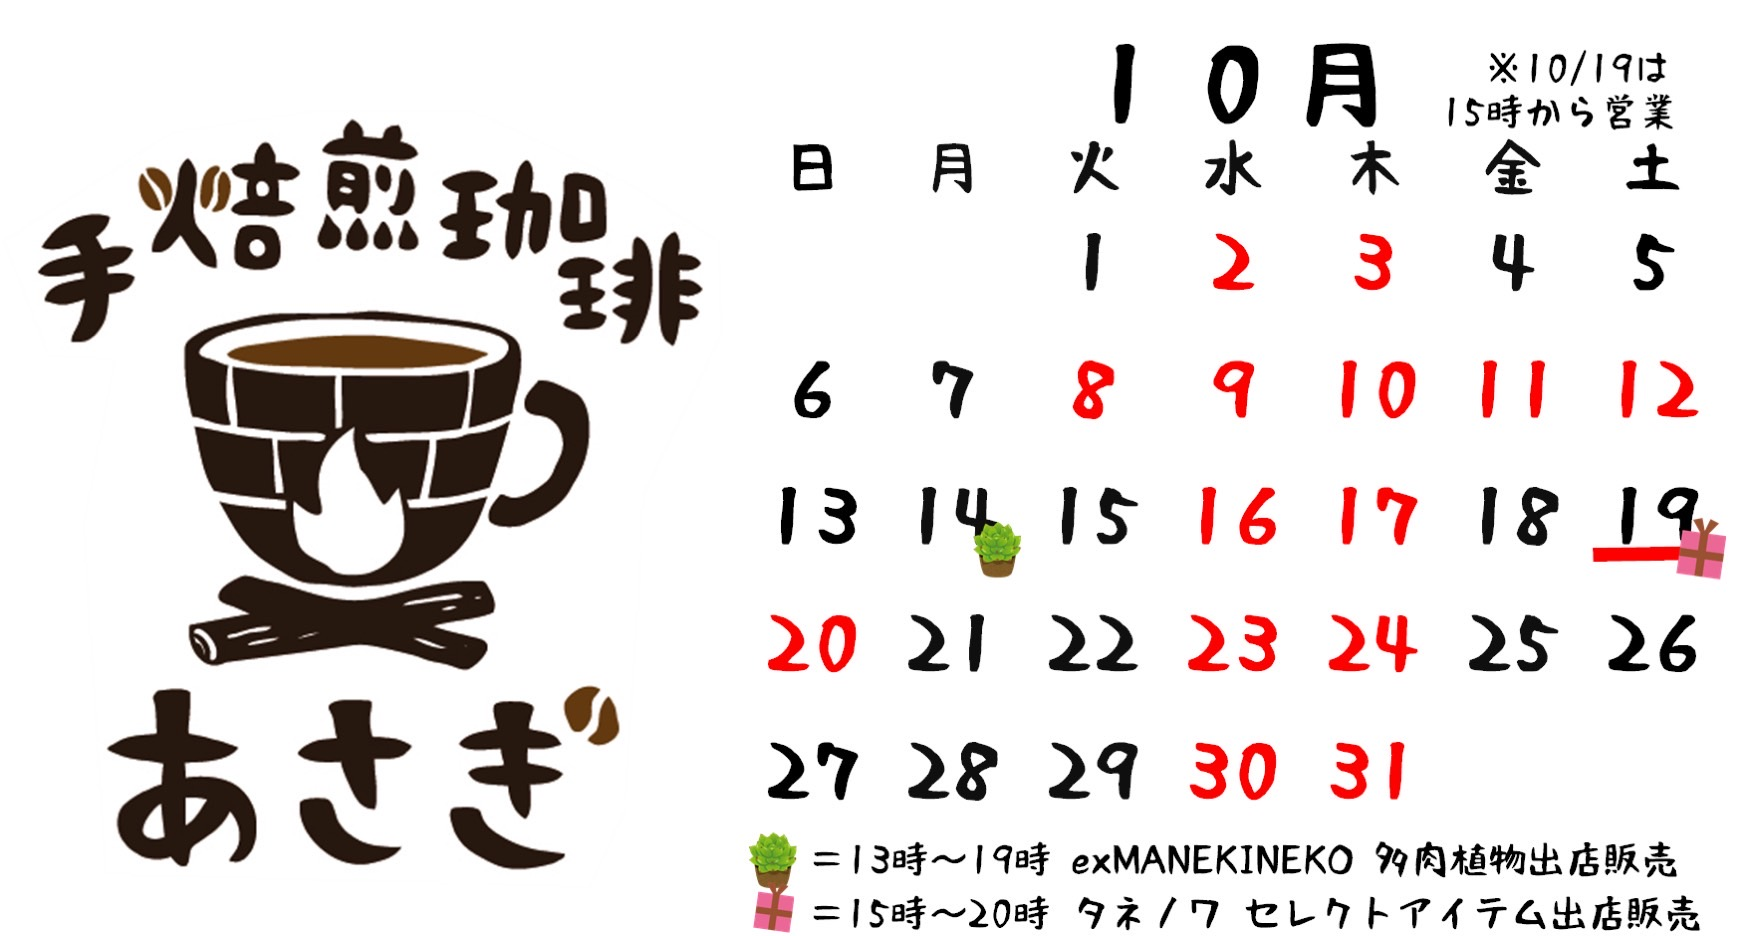
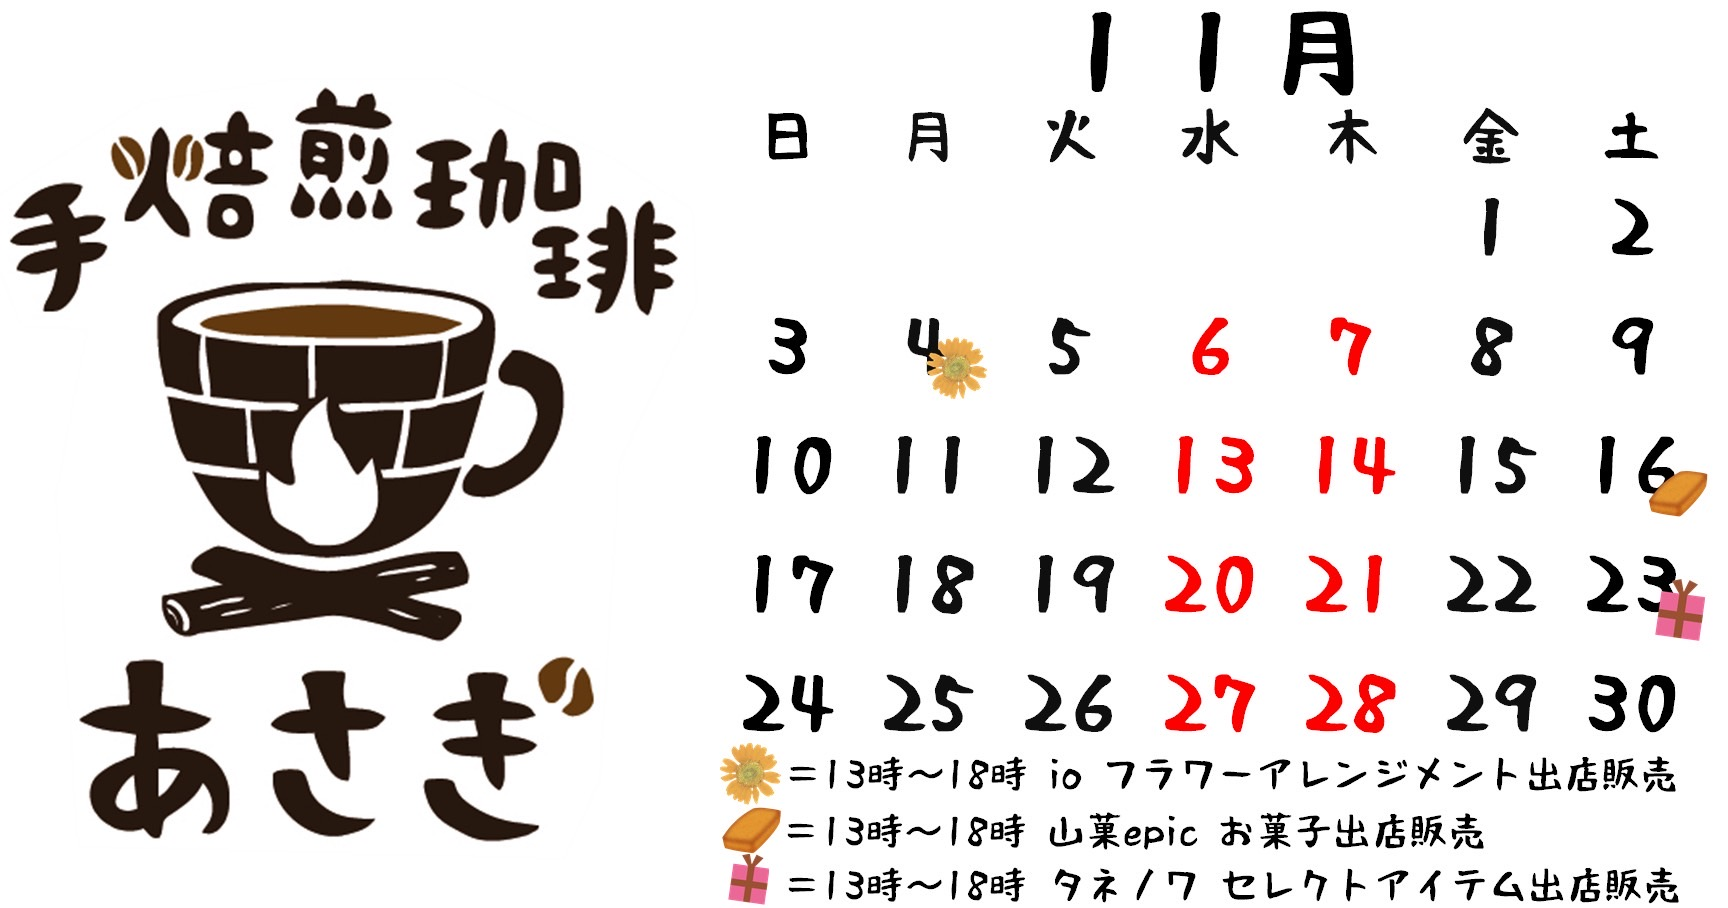
11gatu

diff --git a/bean.html b/bean.html
@@ -112,6 +112,13 @@
                 </a>
             </div>
         </div>
+        <div class="event">
+            <div class="eventbox">
+                <a href="img/seasonal3.jpg" data-lightbox="group">
+                    <img src="img/seasonal3.jpg" width="100%">
+                </a>
+            </div>
+        </div>
         <div id="colum">
             <ul>
             <!--あさぎブレンド-->
